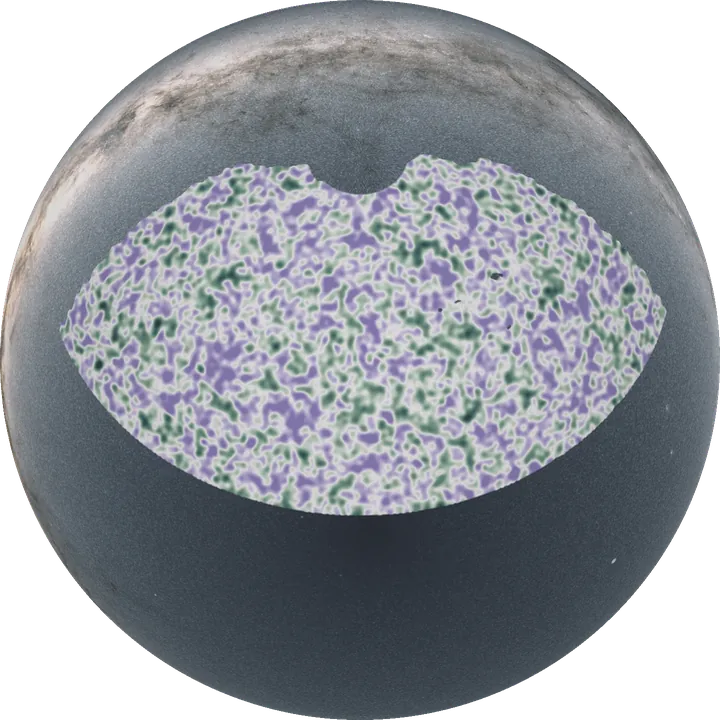
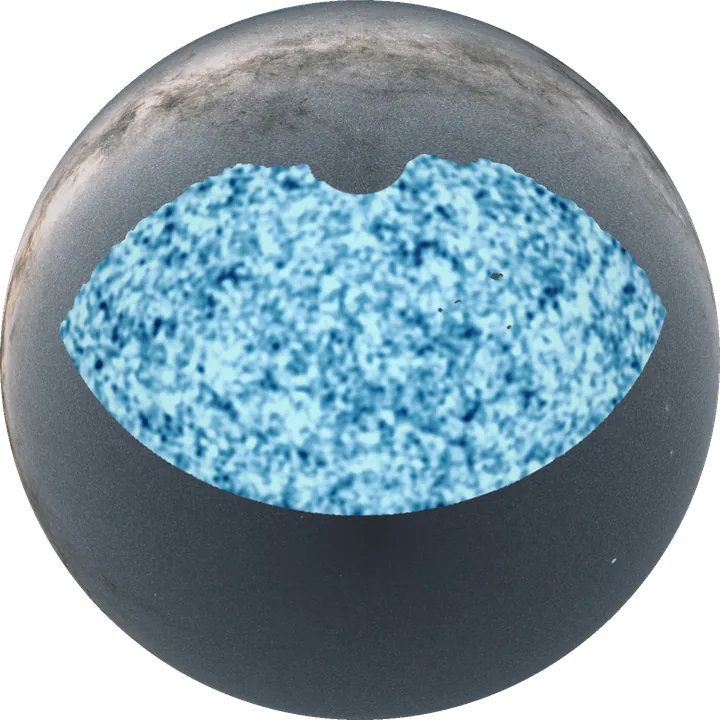
Research: cross-correlation scroll panorama restored; globe back to the press blues, cursor only when live; UNIONS named as a survey
Claude-Session: https://claude.ai/code/session_01JK7o9FD5sBbrzjrcSZUym5

diff --git a/src/scripts/globe.ts b/src/scripts/globe.ts
@@ -103,7 +103,7 @@ function mount(root: HTMLElement) {
     draw();
     root.classList.add('live');
     kick();
-  }).catch(() => {});
+  }).catch((err) => console.warn('globe: the sky texture did not load; the still stays', err));
 
   function resize() {
     const dpr = Math.min(devicePixelRatio || 1, 2);

diff --git a/scripts/globe.py b/scripts/globe.py
@@ -16,8 +16,8 @@ by the smoothed mask so holes and edges don't bleed in, then rescaled to unit
 standard deviation inside the footprint. The amplitude stays blind: only
 κ/σ is shown, and no colour bar.
 
-Colour is the site's: voids in ridge violet, the mean in morning mist, mass
-peaks in hemlock and creek green.
+Colour is the UNIONS press palette, as in the demo video: pale cyan for
+underdense sky, deep blue for the mass peaks.
 
     uv run scripts/globe.py [--kappa FILE] [--gaia FILE]
 
@@ -46,24 +46,17 @@ SS = 2                         # supersampling while baking
 NSIDE = 512                    # working resolution of the mass map
 SMOOTH_FWHM_ARCMIN = 30.0      # smoothing of the delivered KS map
 DISPLAY_FWHM_ARCMIN = 60.0     # total smoothing of the map shown
-LO, HI = -1.6, 3.5             # display range, in units of the shown map's σ
+LO, HI = -1.5, 3.5             # display range, in units of the shown map's σ
 MAP_ALPHA = 0.94               # opacity of the map over the sky
 
 # The opening view (data-elev, data-phi on /research): camera latitude and the RA it faces.
 ELEV, PHI = 55.0, 195.0
 STILL = 720                    # fallback still, px
 
-# low κ → high κ: voids in ridge violet, the mean in morning mist, mass
-# peaks in hemlock and deep creek green
-STOPS = [
-    (-1.6, "#8578AE"),
-    (-0.7, "#B6ACCF"),
-    (0.0, "#E8E5E6"),
-    (0.7, "#B4C6B8"),
-    (1.5, "#739381"),
-    (2.4, "#476B6B"),
-    (3.5, "#27413F"),
-]
+# low κ → high κ, pale cyan to deep blue: the press palette of the UNIONS map, as in the demo video
+# (massmap_style.STOPS), evenly spaced over LO…HI
+_PRESS = ["#c7fbff", "#a4defa", "#67b1d5", "#2d8ab4", "#0d4885", "#08204f"]
+STOPS = [(-1.5 + 5.0 * i / (len(_PRESS) - 1), c) for i, c in enumerate(_PRESS)]
 
 # J2000 equatorial → galactic rotation
 EQ2GAL = np.array([[-0.0548755604, -0.8734370902, -0.4838350155],

diff --git a/CLAUDE.md b/CLAUDE.md
@@ -67,9 +67,9 @@ The name "Almanac" appears in the nav (BaseLayout), the page title, and the titl
 
 ## Mass-map globe (`/research`)
 
-The Optical Cosmic Shear card carries the UNIONS κ_E mass map on an interactive celestial globe, over the Gaia EDR3 sky. It is the site's one moving thing: it turns slowly (about 5°/s), pauses off screen, and does not turn at all under `prefers-reduced-motion`. Drag (or arrow keys) turns it; pinch, ctrl+wheel (trackpad pinch), `+`/`-`, or the wheel once the globe is focused zoom it, so the wheel never takes over page scrolling. On touch, a vertical swipe scrolls the page until the globe is zoomed in.
+The Optical Cosmic Shear card carries the UNIONS κ_E mass map on an interactive celestial globe, over the Gaia EDR3 all-sky map. It is the site's one moving thing: it turns slowly (about 5°/s), pauses off screen, and does not turn at all under `prefers-reduced-motion`. Drag (or arrow keys) turns it; pinch, ctrl+wheel (trackpad pinch), `+`/`-`, or the wheel once the globe is focused zoom it, so the wheel never takes over page scrolling. On touch, a vertical swipe scrolls the page until the globe is zoomed in.
 
-- `scripts/globe.py` (`uv run scripts/globe.py`) bakes `public/globe/sky.webp`, one 2048×1024 equirectangular texture in equatorial coordinates (Gaia sky with the mass map composited inside the footprint), and `public/globe/globe.webp`, a still of the opening view that shows until WebGL draws and stands in without JS or WebGL2. The map follows the demo video's recipe (60′ mask-normalised smoothing, unit σ, amplitude blinded) in the site's colours: voids ridge violet, mean mist, peaks hemlock and creek green. Inputs default to the files in the loom and `~/Downloads`; pass `--kappa` and `--gaia` to point elsewhere.
+- `scripts/globe.py` (`uv run scripts/globe.py`) bakes `public/globe/sky.webp`, one 2048×1024 equirectangular texture in equatorial coordinates (Gaia sky with the mass map composited inside the footprint), and `public/globe/globe.webp`, a still of the opening view that shows until WebGL draws and stands in without JS or WebGL2. The map follows the demo video's recipe (60′ mask-normalised smoothing, unit σ, amplitude blinded) in the video's press palette, pale cyan for underdense sky to deep blue for the mass peaks. Inputs default to the files in the loom and `~/Downloads`; pass `--kappa` and `--gaia` to point elsewhere.
 - `src/scripts/globe.ts` is a self-written WebGL2 renderer: one fragment shader ray-casts an orthographic sphere and samples the texture with seam-safe gradients. Textures load only when the globe nears the viewport. The opening view (`data-elev`, `data-phi`) matches `ELEV, PHI` in `globe.py`. RA increases to the left, as in the video.
 
 ## Claims Demo (`/claims-demo/`)

diff --git a/src/content/pages/index.md b/src/content/pages/index.md
@@ -4,6 +4,6 @@ subtitle: Observational Cosmology · Science & AI
 mode: blended
 ---
 
-I'm an observational cosmologist studying gravitational lensing to map dark matter and constrain cosmology. My work spans the cosmic microwave background and optical galaxy surveys, and I'm a member of the Euclid, SPT-3G, and UNIONS collaborations. I'm currently a postdoc at CEA Paris-Saclay in the CosmoStat laboratory, funded by the [TOSCA project](https://tosca.cosmostat.org/), where I'm leading production of the 5,000 deg² UNIONS tomographic shear catalogue and a Euclid × SPT-3G cross-correlation paper.
+I'm an observational cosmologist studying gravitational lensing to map dark matter and constrain cosmology. My work spans the cosmic microwave background and optical galaxy surveys, and I'm a member of the Euclid, SPT-3G, and UNIONS collaborations. I'm currently a postdoc at CEA Paris-Saclay in the CosmoStat laboratory, funded by the [TOSCA project](https://tosca.cosmostat.org/), where I'm leading production of a 5,000 deg² tomographic shear catalogue from the UNIONS survey and a Euclid × SPT-3G cross-correlation paper.
 
 For the last year I've done all of my research with agentic AI, and I've been thinking a lot about how to do agentic science in a way that's more robust, more ambitious, and more enjoyable. As a core team member of [Lightcone Research](https://lightconeresearch.org), I help build open-source tools for verifiable AI-mediated science. You can find more in the [Almanac](/almanac).

diff --git a/src/content/pages/about.md b/src/content/pages/about.md
@@ -7,4 +7,4 @@ I grew up in West Virginia. I did my bachelor's at Wesleyan University, studying
 
 For my PhD at the University of Illinois Urbana-Champaign I shifted to cosmology, working on CMB lensing with the South Pole Telescope. I also helped run Astronomy on Tap and First Discoveries, an early childhood science education program.
 
-After finishing in 2024 I moved to Paris for the TOSCA project at CEA Paris-Saclay, which focuses on cross-correlations between optical and radio surveys. I lead production of the 5,000 deg² UNIONS tomographic shear catalogue and a Euclid × SPT-3G cross-correlation paper, alongside work on kinematic lensing.
+After finishing in 2024 I moved to Paris for the TOSCA project at CEA Paris-Saclay, which focuses on cross-correlations between optical and radio surveys. I lead production of a 5,000 deg² tomographic shear catalogue from the UNIONS survey and a Euclid × SPT-3G cross-correlation paper, alongside work on kinematic lensing.
